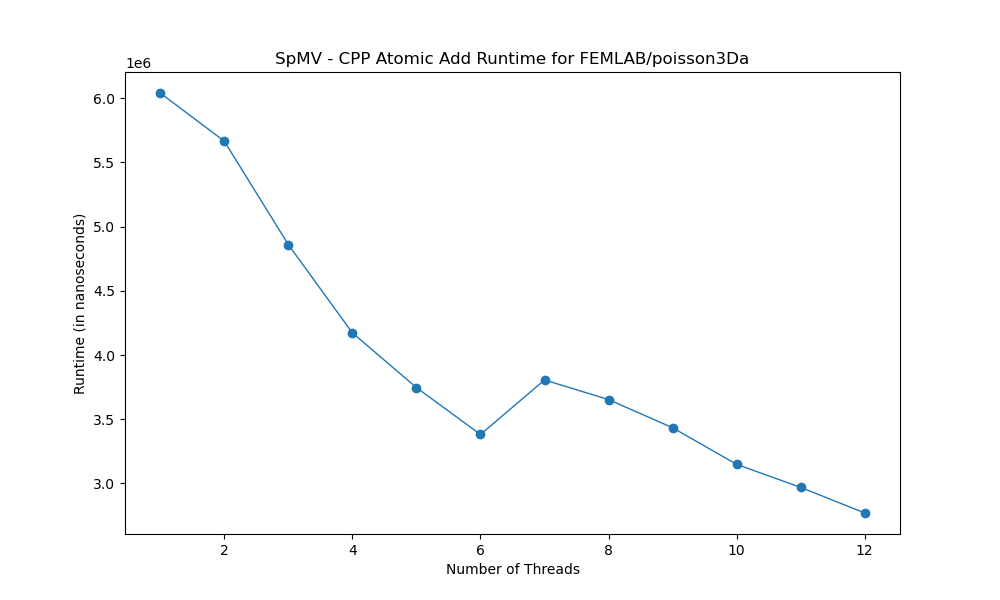
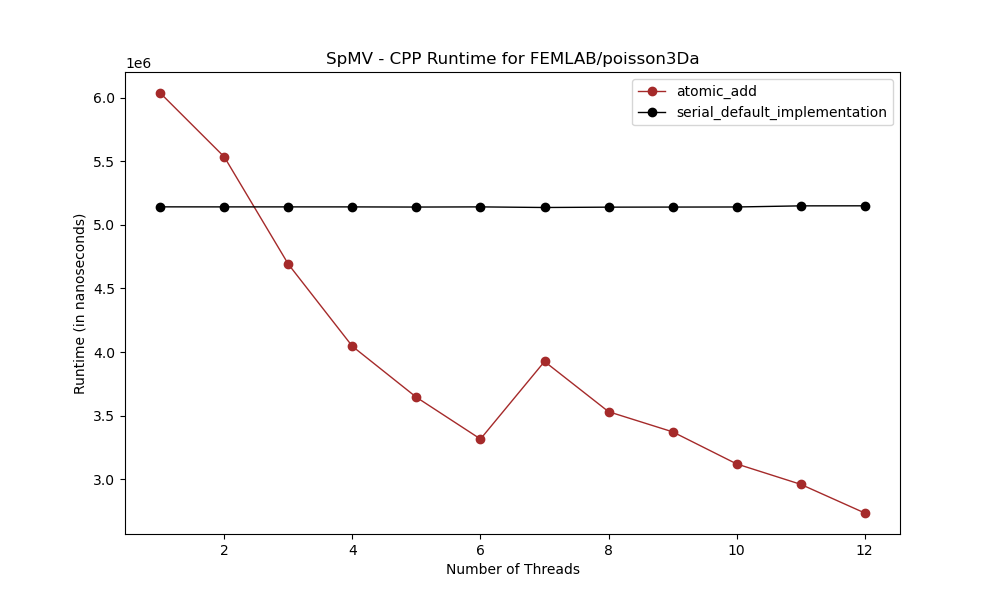
Plot result

diff --git a/graph.py b/graph.py
@@ -3,11 +3,15 @@ import os
 
 import matplotlib.pyplot as plt
 
+DEFAULT_METHOD = "serial_default_implementation"
+
 MEASUREMENTS_JSON = "measurements.json"
 RESULT_DIRECTORY = "result"
 GRAPH_DIRECTORY = "graph"
 RUNTIME_DIRECTORY = "runtime"
 SPEEDUP_DIRECTORY = "speedup"
+
+COLORS = ["brown", "black"]
 
 
 def find_measurements(result_directory):
@@ -22,15 +26,19 @@ def find_measurements(result_directory):
 
 def plot_runtime(result, dataset):
     plt.figure(figsize=(10, 6))
-    plt.plot(
-        range(1, len(result) + 1),
-        [result[str(thread)] for thread in range(1, len(result) + 1)],
-        marker="o",
-        linestyle="-",
-        linewidth=1,
-    )
+    for (method, method_result), color in zip(result.items(), COLORS):
+        plt.plot(
+            range(1, len(method_result) + 1),
+            [method_result[str(thread)] for thread in range(1, len(method_result) + 1)],
+            label=method,
+            color=color,
+            marker="o",
+            linestyle="-",
+            linewidth=1,
+        )
 
-    plt.title(f"SpMV - CPP Atomic Add Runtime for {dataset}")
+    plt.title(f"SpMV - CPP Runtime for {dataset}")
+    plt.legend()
     plt.xlabel("Number of Threads")
     plt.ylabel(f"Runtime (in nanoseconds)")
 
@@ -43,17 +51,22 @@ def plot_runtime(result, dataset):
 
 def plot_speedup(result, dataset):
     plt.figure(figsize=(10, 6))
-    plt.plot(
-        range(1, len(result) + 1),
-        [result["1"] / result[str(thread)] for thread in range(1, len(result) + 1)],
-        marker="o",
-        linestyle="-",
-        linewidth=1,
-    )
+    for (method, method_result), color in zip(result.items(), COLORS):
+        plt.plot(
+            range(1, len(method_result) + 1),
+            [
+                result[DEFAULT_METHOD][str(thread)] / method_result[str(thread)]
+                for thread in range(1, len(method_result) + 1)
+            ],
+            label=method,
+            color=color,
+            marker="o",
+            linestyle="-",
+            linewidth=1,
+        )
 
-    plt.title(
-        f"SpMV - CPP Atomic Add Speedup for {dataset} (with respect to one thread)"
-    )
+    plt.title(f"SpMV - CPP Speedup for {dataset} (with respect to {DEFAULT_METHOD})")
+    plt.legend()
     plt.xlabel("Number of Threads")
     plt.ylabel(f"Speedup")
 
@@ -77,6 +90,6 @@ if __name__ == "__main__":
             *os.path.normpath(measurement_file).split(os.path.sep)[1:-1]
         )
 
-        result = json.load(open(measurement_file, "r"))["time"]
+        result = json.load(open(measurement_file, "r"))
 
         plot_result(result, dataset)
